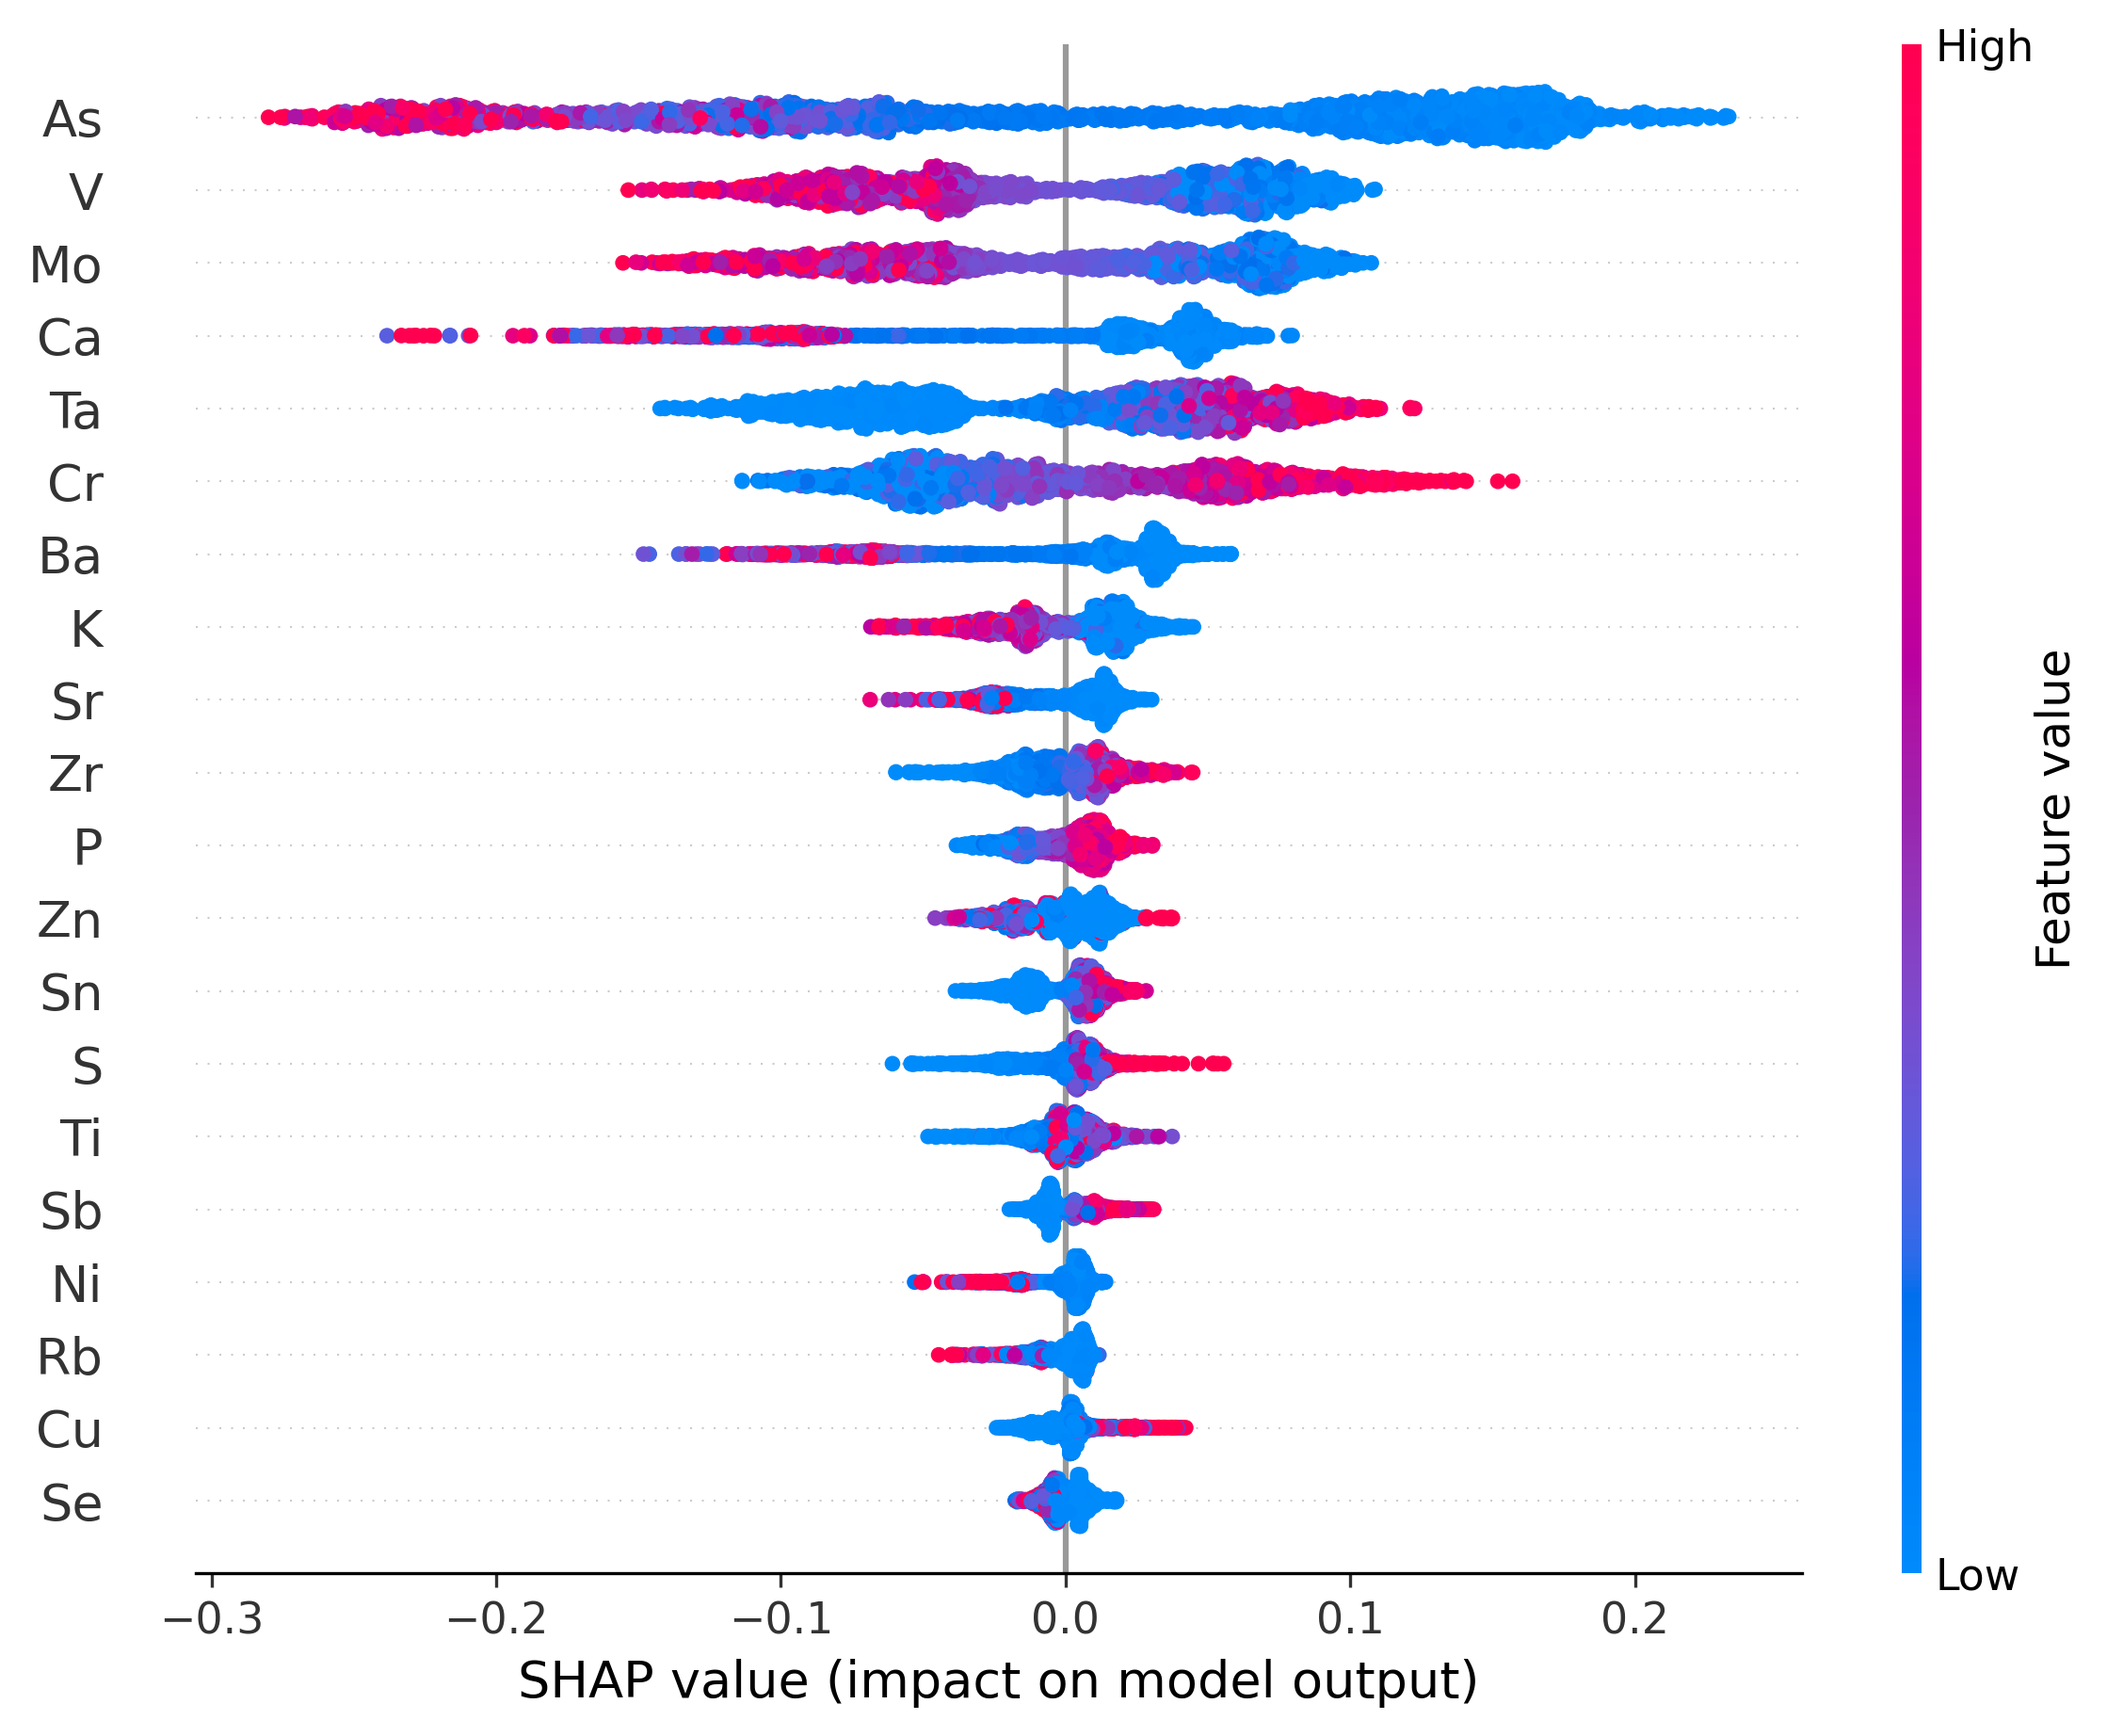
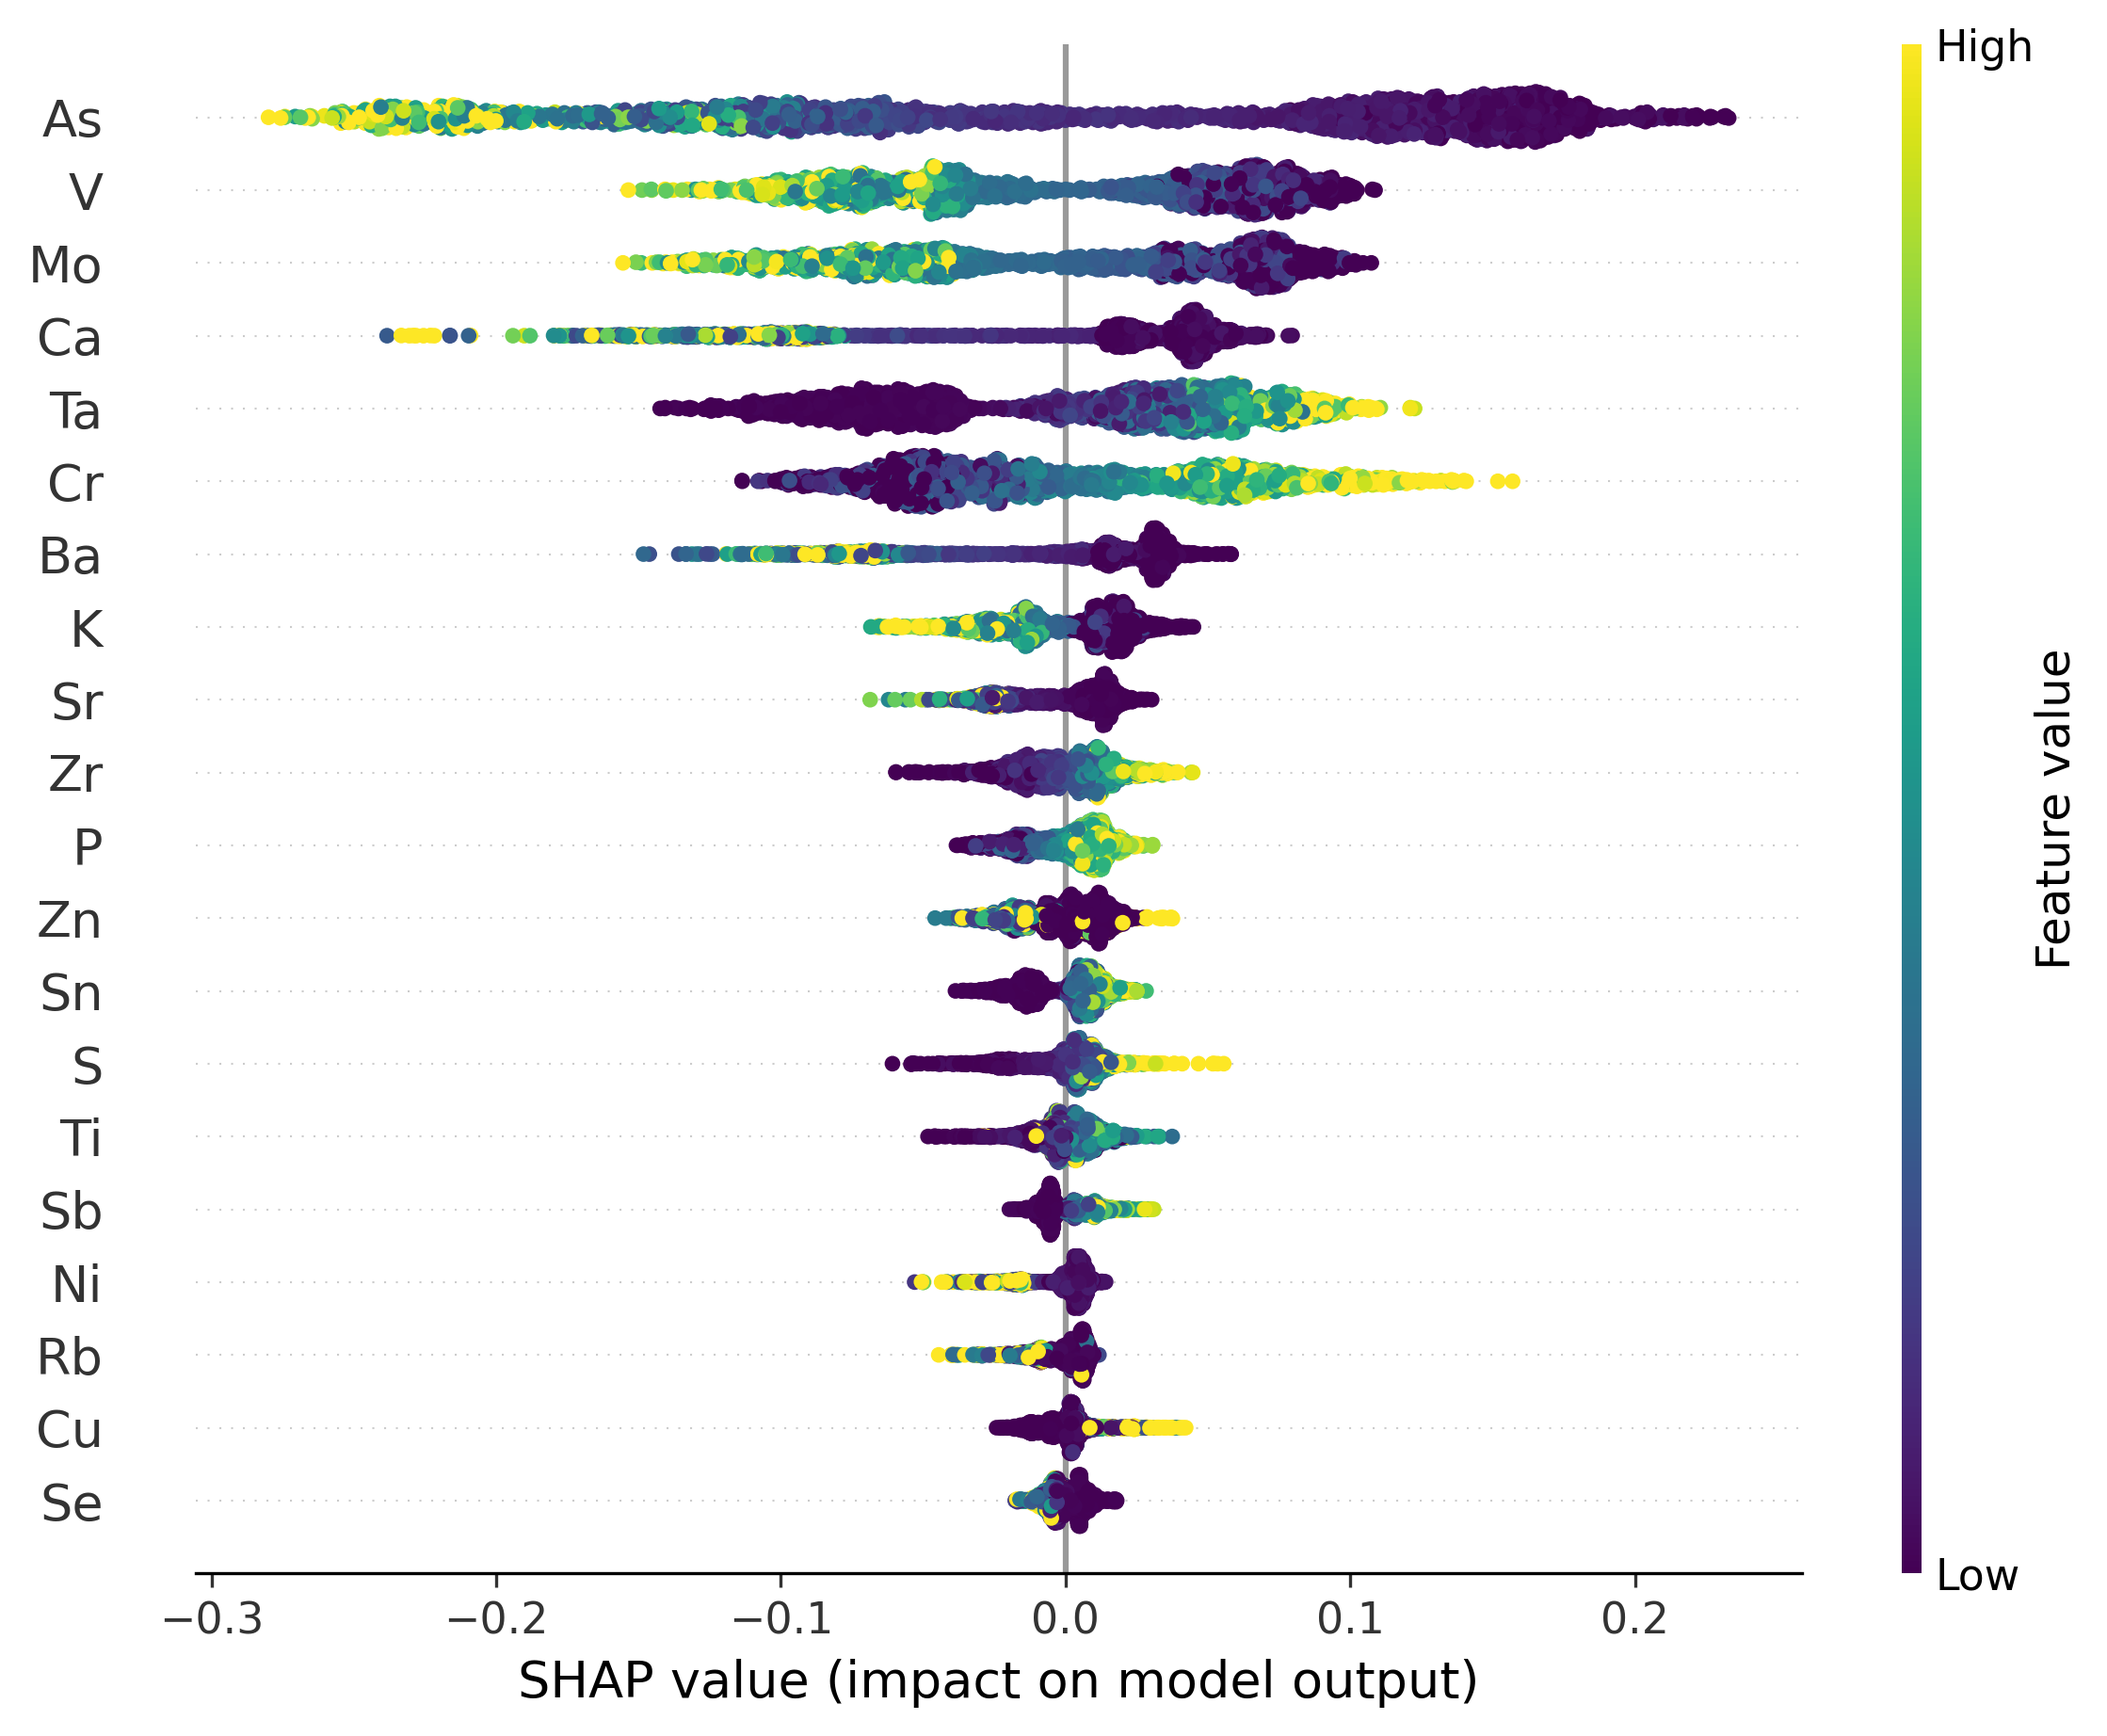
shap analyzer.py

Changed region(s): [[0.1233, 0.0309, 0.8324, 0.8964], [0.8941, 0.0309, 0.9249, 0.8964]]

diff --git a/PRODUCTION/src/analysis/shap_analyzer.py b/PRODUCTION/src/analysis/shap_analyzer.py
@@ -215,9 +215,9 @@ class ShapAnalyzer:
                     shap_values[1] if len(shap_values) > 1 else shap_values[0],
                     X_train,
                     max_display=20,
+                    cmap=plt.cm.viridis,
                     plot_type=None,
-                    show=False,
-                    color=plt.get_cmap("viridis")
+                    show=False
                 )
             else:
                 # Para formato más reciente (objeto Explanation)
